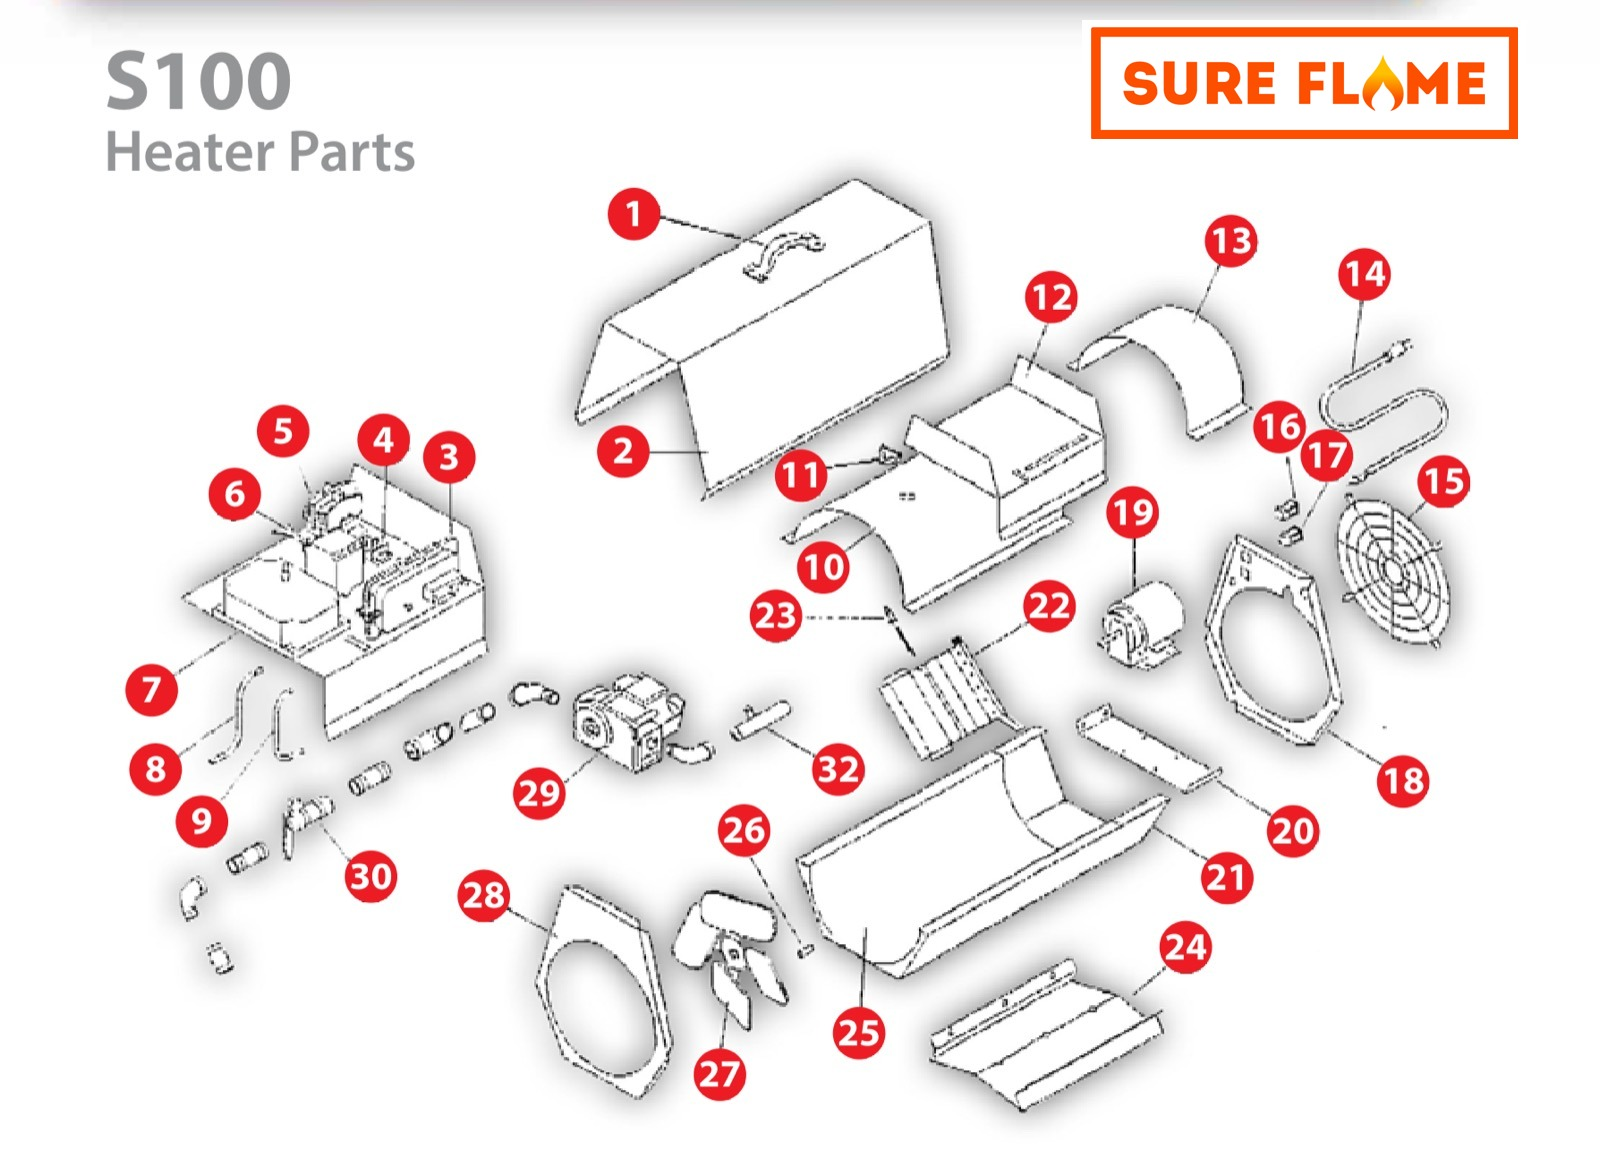
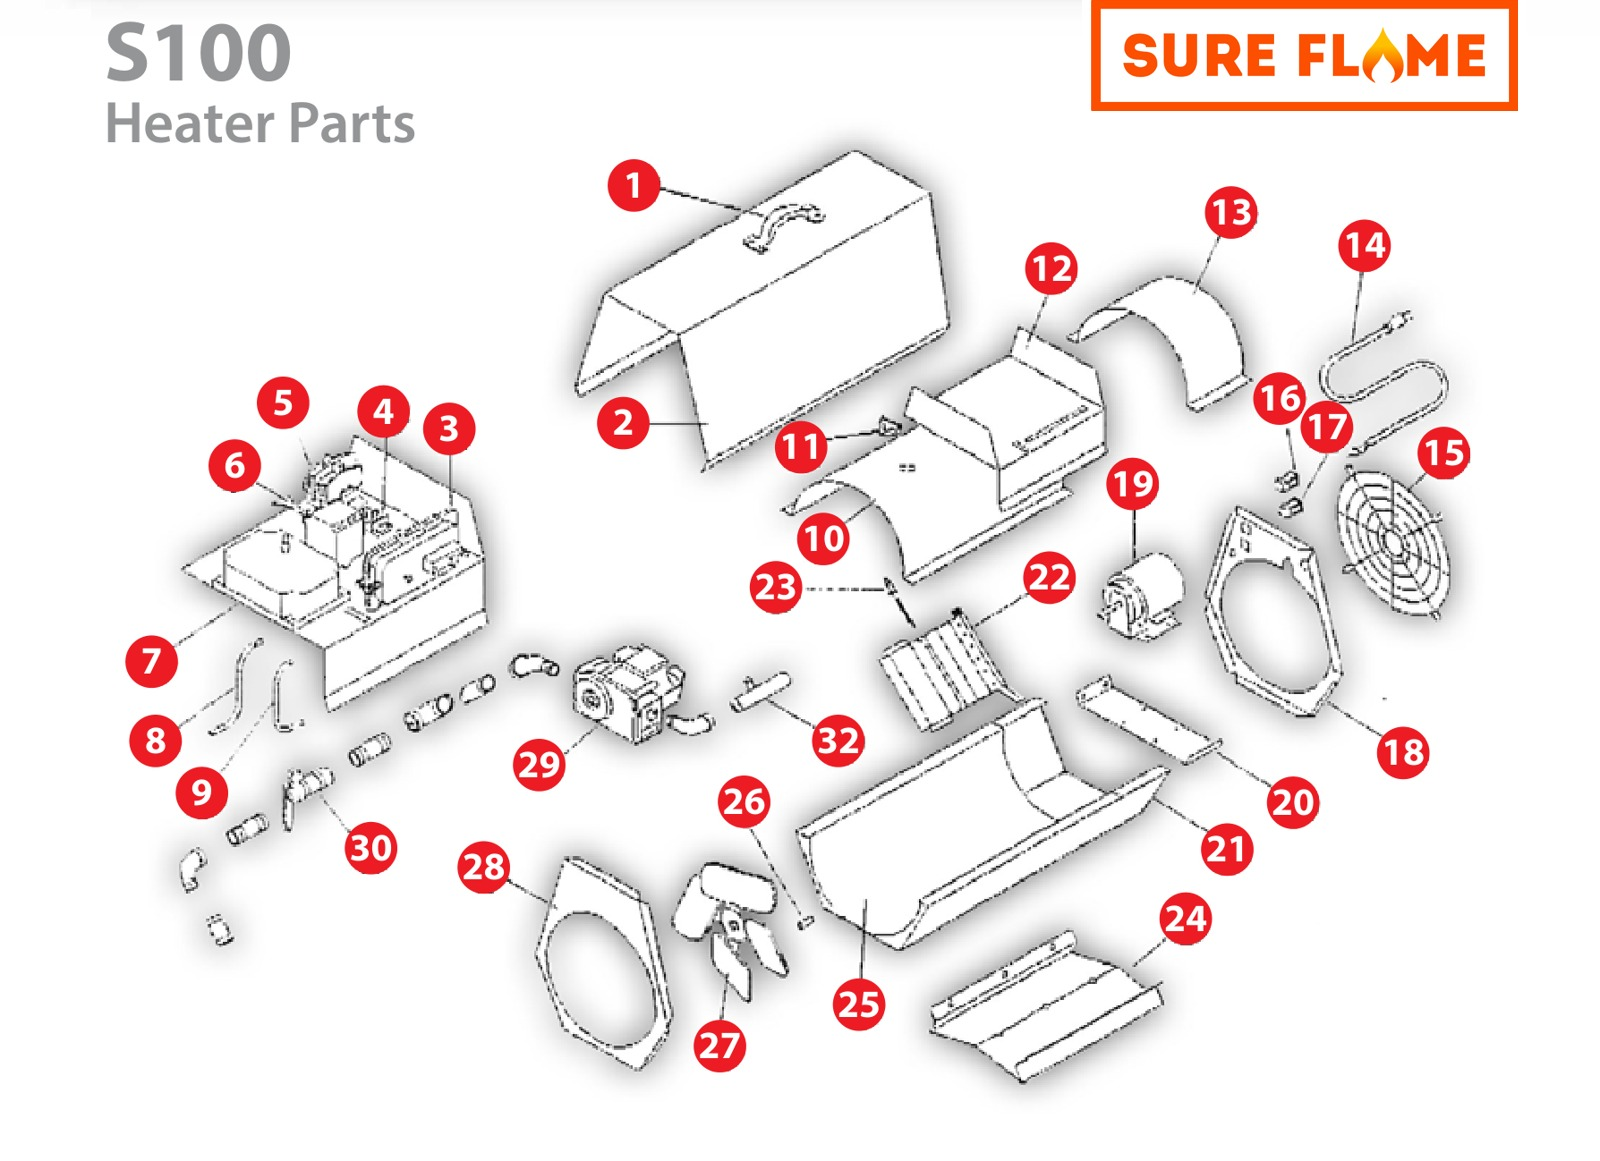
Fix top shadow on S100 + SE405 diagrams
- Re-crop both from the PDF with a clean top (clears banner drop-shadow) and
  trim the bottom above the parts table; keep new orange logo + red bubbles
- Bump s100/se405 diagram cache-bust to ?v=3

Changed region(s): [[0.0625, 0.124, 0.9375, 0.9612], [0.0312, 0.0, 0.9688, 0.155], [0.125, 0.7752, 0.1562, 0.8372]]

diff --git a/project/website/sure-flame-se405-parts.html b/project/website/sure-flame-se405-parts.html
@@ -33,7 +33,7 @@ window.MODEL = {
   hero:A+"/sf-icons/SE405.jpg", heroContain:true,
   crumb:[["Home","index.html"],["Parts","parts.html"],["Sure Flame Factory Parts","sure-flame-parts.html"]],
   groups:[
-    { id:"sure-flame-se405-parts", name:"SE405 Heater Parts", diagram:A+"/sf-diagrams/se405-main.jpg?v=2", cap:"SE405 Heater Parts", parts:[
+    { id:"sure-flame-se405-parts", name:"SE405 Heater Parts", diagram:A+"/sf-diagrams/se405-main.jpg?v=3", cap:"SE405 Heater Parts", parts:[
       { no:1, pn:"SFP SE-4091", d:"Top Cover", price:null },
       { no:2, pn:"SFP 9843", d:"Limit Switch", price:null },
       { no:3, pn:"SFP 7780", d:"Nose Cone Spacer", price:null },

diff --git a/project/website/sure-flame-s100-parts.html b/project/website/sure-flame-s100-parts.html
@@ -33,7 +33,7 @@ window.MODEL = {
   hero:A+"/sf-icons/S100.jpg", heroContain:true,
   crumb:[["Home","index.html"],["Parts","parts.html"],["Sure Flame Factory Parts","sure-flame-parts.html"]],
   groups:[
-    { id:"sure-flame-s100-parts", name:"S100 Heater Parts", diagram:A+"/sf-diagrams/s100-main.jpg?v=2", cap:"S100 Heater Parts", parts:[
+    { id:"sure-flame-s100-parts", name:"S100 Heater Parts", diagram:A+"/sf-diagrams/s100-main.jpg?v=3", cap:"S100 Heater Parts", parts:[
       { no:1, pn:"SFP 6897", d:"HANDLE", price:null },
       { no:2, pn:"SFP S100-101", d:"Top Shell", price:null },
       { no:3, pn:"SFP 5124", d:"Air Switch (0.2\u201d W.C. )", price:null },
